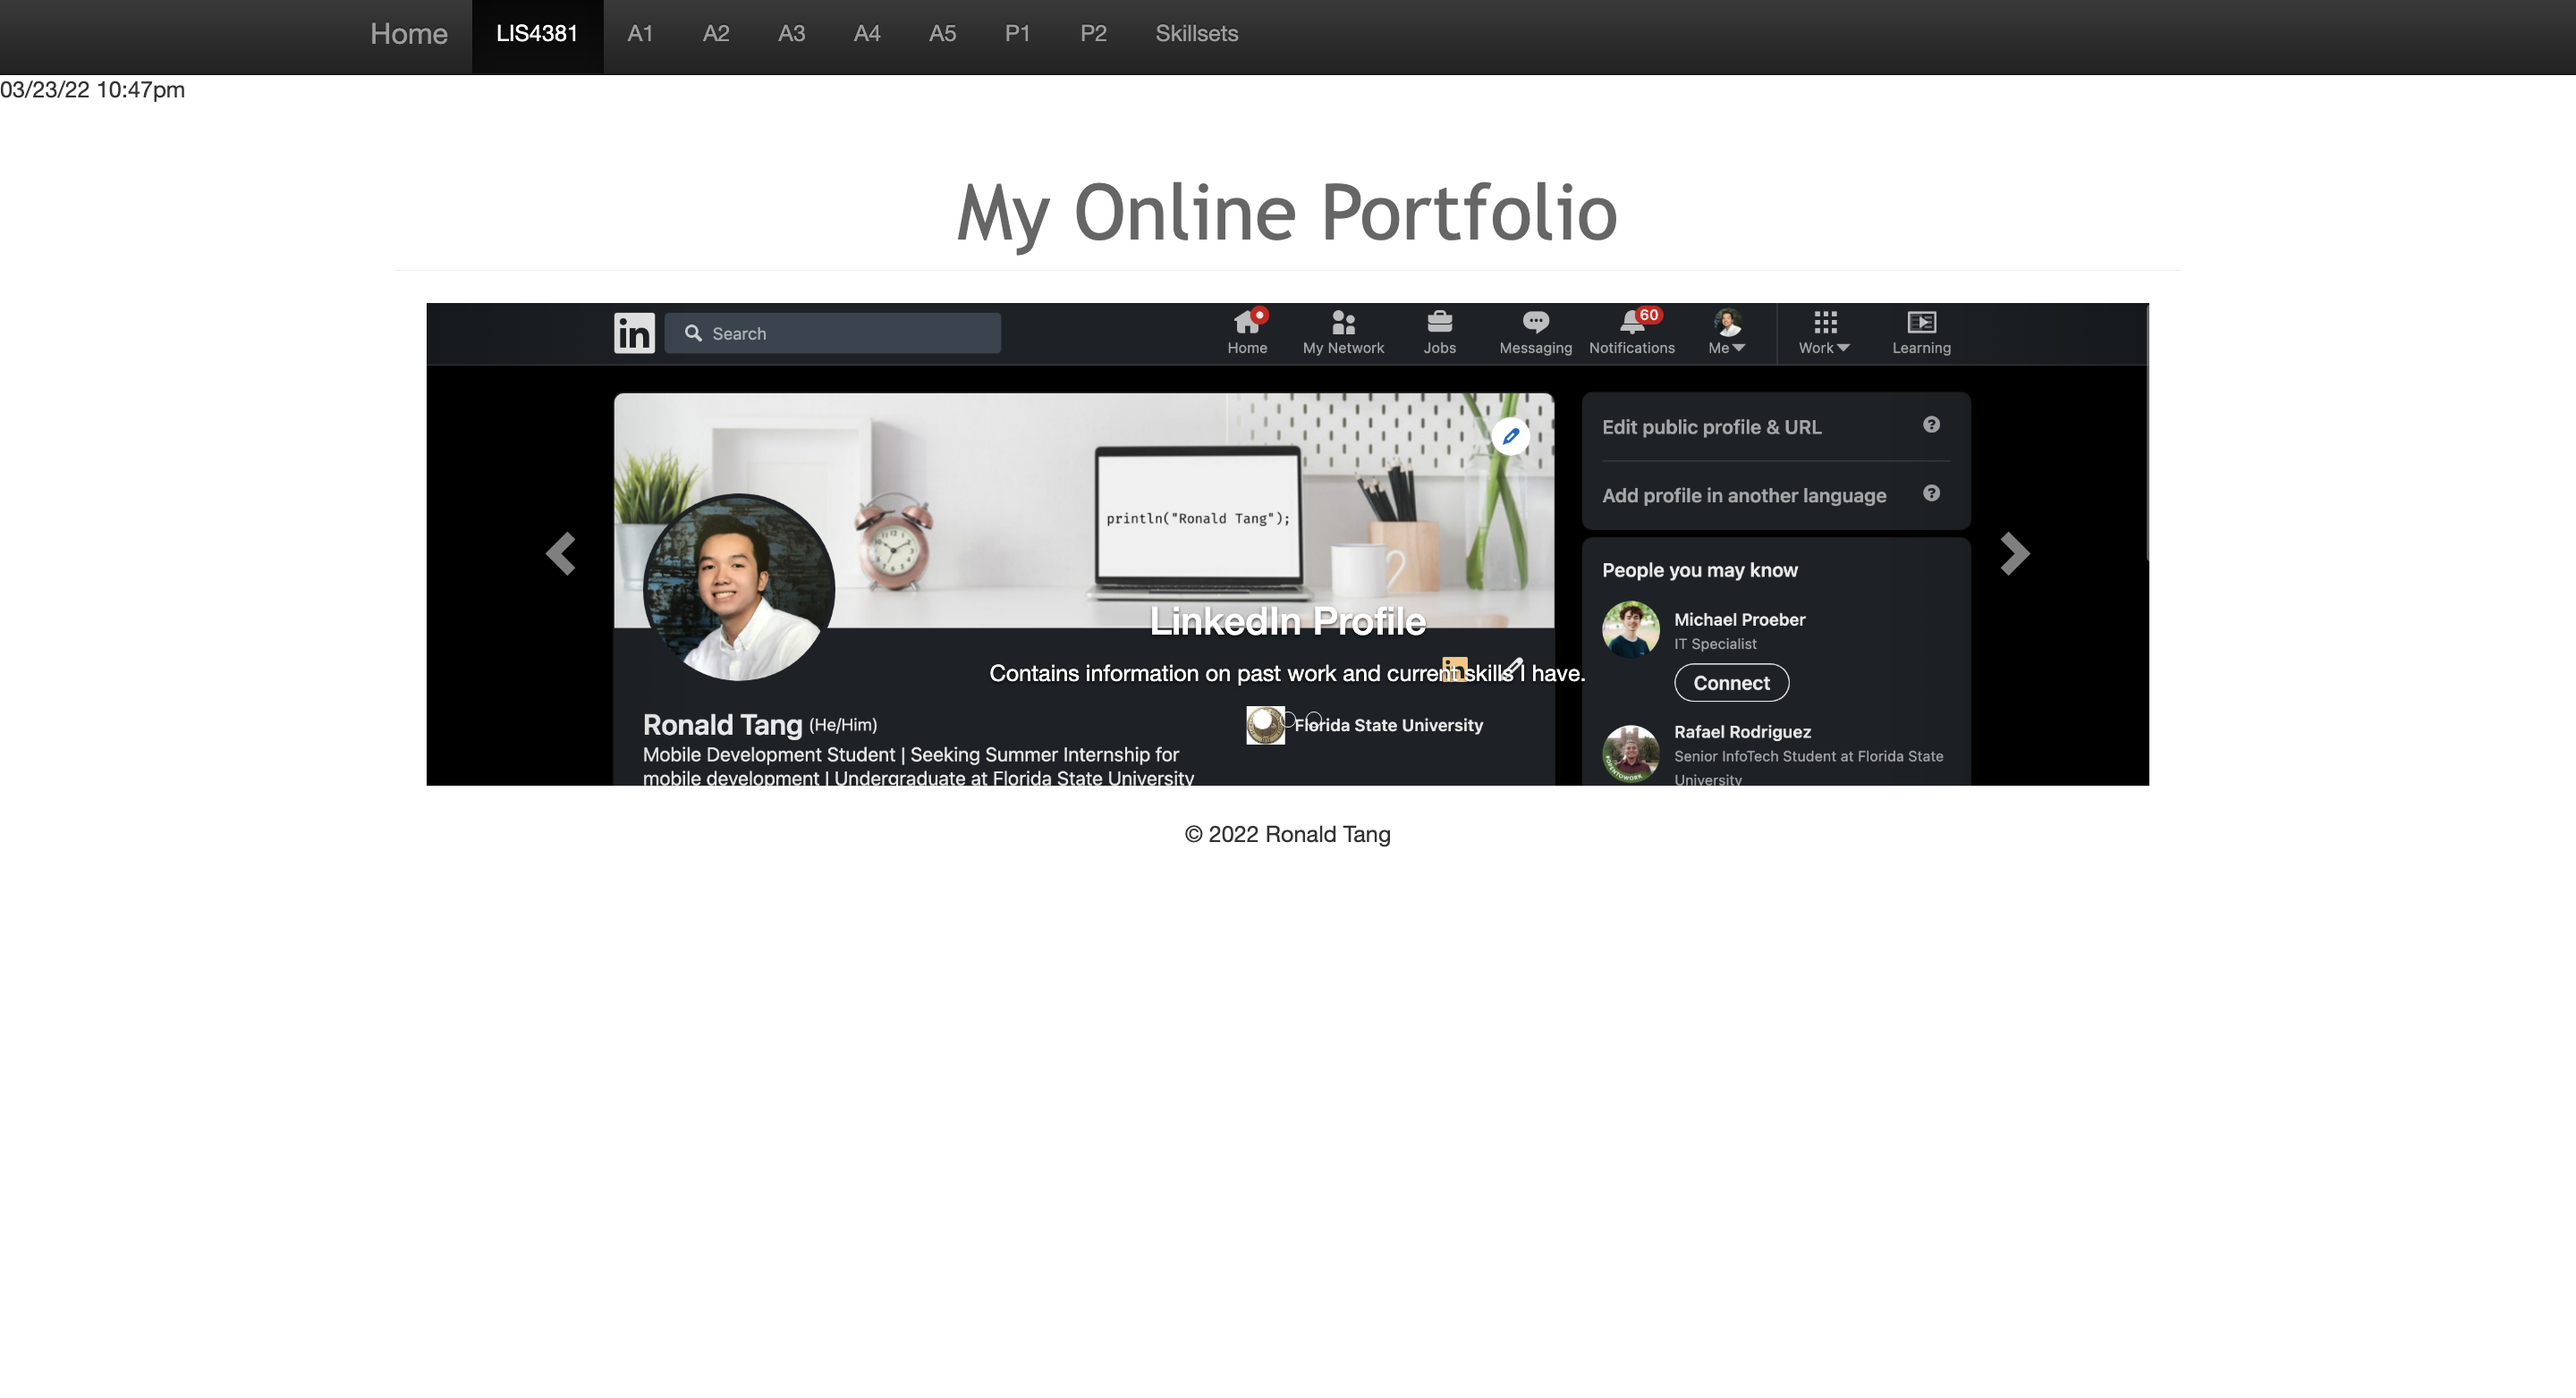
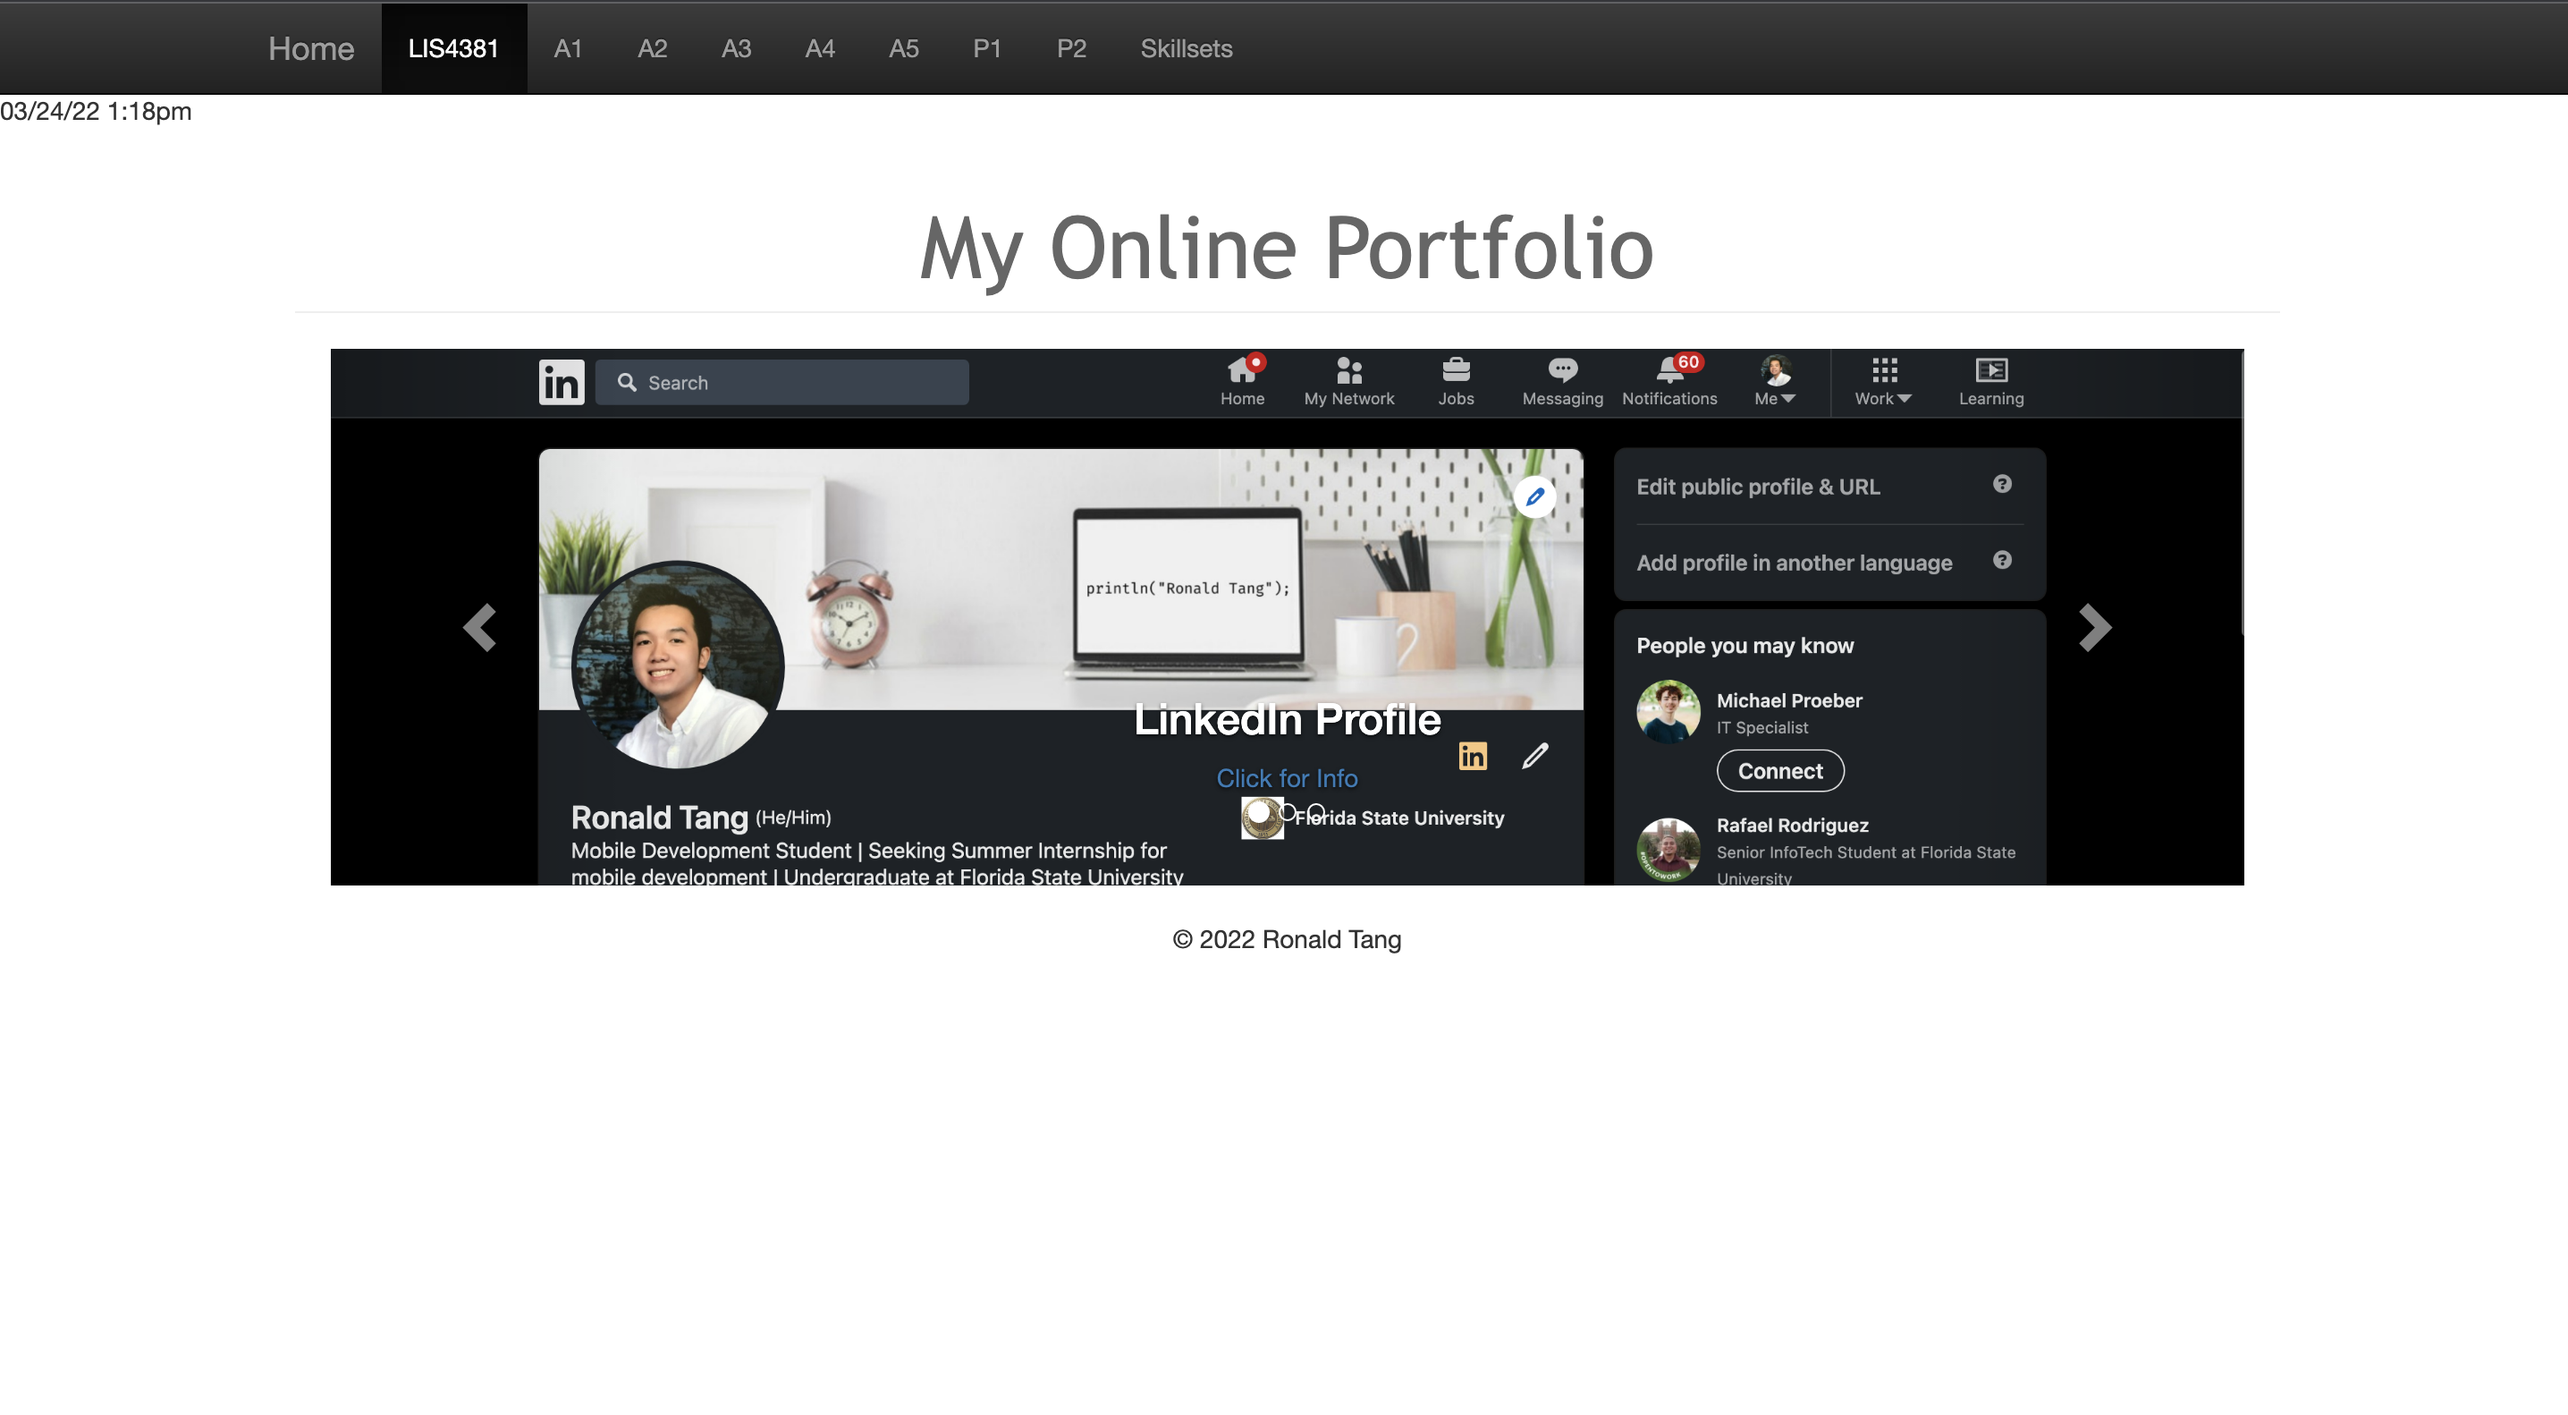
changed image file

Changed region(s): [[0.124, 0.1228, 0.8987, 0.6752], [0.0, 0.0, 1.0, 0.0921]]

diff --git a/index.php b/index.php
@@ -72,7 +72,7 @@
 							<img src = "img/slide1.png" alt="Slide 1"> 
 									<div class="carousel-caption">
 										<h3>LinkedIn Profile</h3>
-										<p>Contains information on past work and current skills I have.</p>
+										<a href="www.linkedin.com/in/ronald-tang12" class="Info">Click for Info</a>
                         </div>
                       </div>
               
@@ -80,15 +80,15 @@
 								<img src="img/slide2.png" alt="Slide 2">
 								<div class="carousel-caption">
 									<h3>Bitbucket</h3>
-									<p>Check out the repositories.</p>									
+									<a href="https://bitbucket.org/ronaldtang1/lis4381/src/" class="Info">Click for Info</a>								
 								</div>
 							</div>
 
 							<div class="item">
-								<img src="img/slide3.jpg" alt="Slide 3">
+								<img src="img/slide3.png" alt="Slide 3">
 								<div class="carousel-caption">
-									<h3>Cloud Computing</h3>
-									<p>Building and Maintaing cloud infrastructure</p>									
+									<h3>Github</h3>	
+									<a href="https://github.com/ronaldtang1" class="Info">Click for Info</a>								
 								</div>
 							</div>
 						</div>
